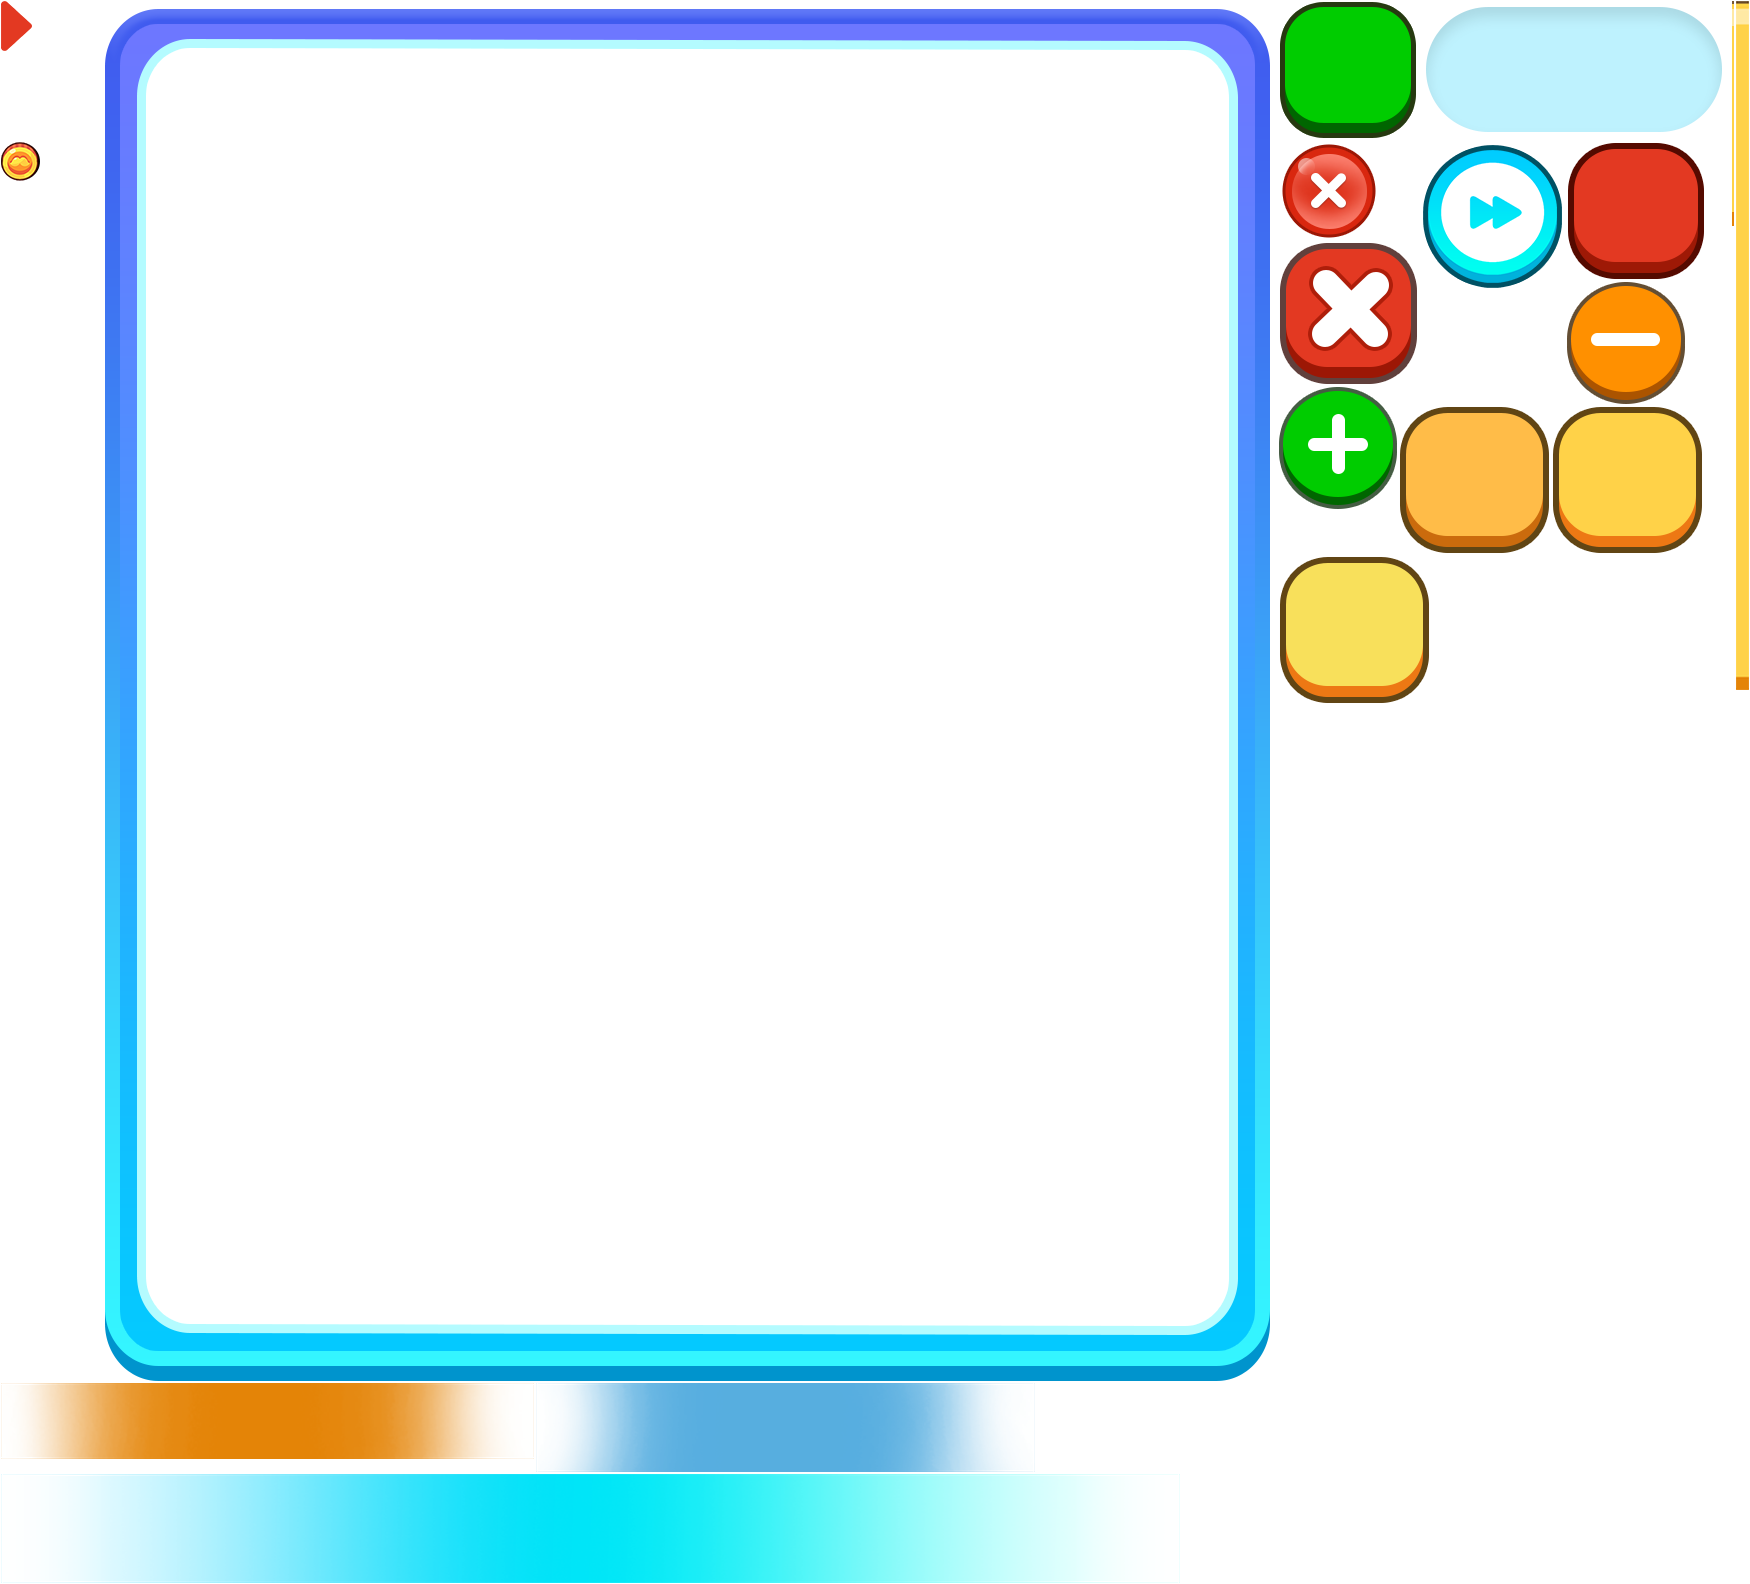
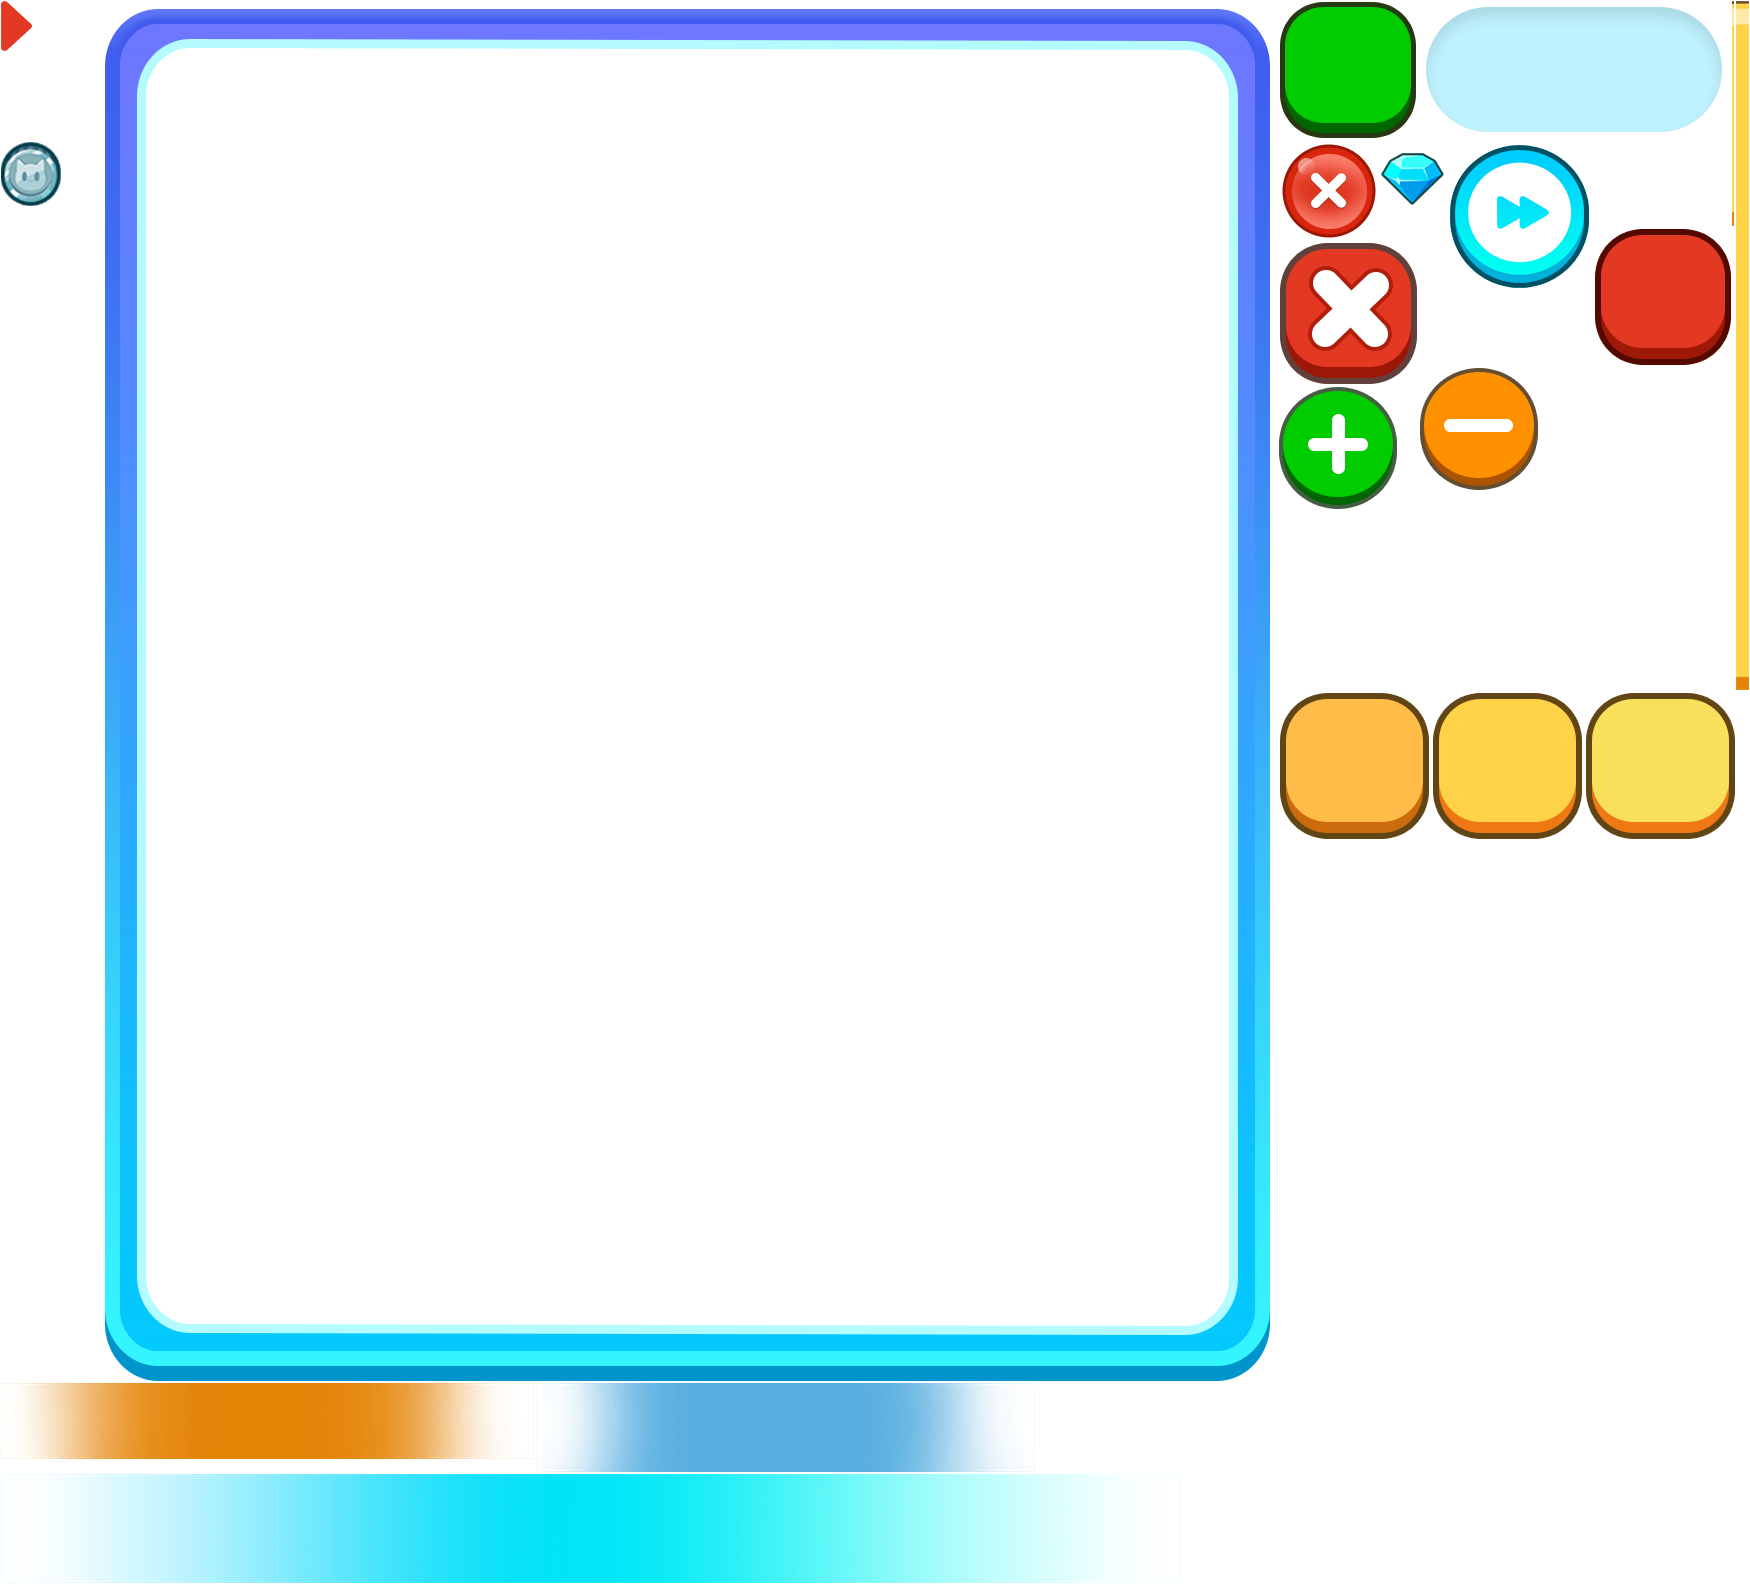
等级/矿工学识等级提升的系统提示和矿工装备界面优化

Changed region(s): [[0.7097, 0.0928, 1.0, 0.5568], [0.0, 0.0928, 0.0309, 0.1547]]

diff --git a/src/ui/EquipUpgrade/EquipUpgradeItem.ts b/src/ui/EquipUpgrade/EquipUpgradeItem.ts
@@ -1,16 +1,18 @@
 import { Font } from "../../utils/font";
 import { DynamicImage } from "../components/dynamic.image";
-import { Url } from "../../utils/resUtil";
+import { Url, Coin } from "../../utils/resUtil";
 import { op_client } from "pixelpai_proto";
 import { GameGridTable } from "../../../lib/rexui/lib/ui/gridtable/GameGridTable";
 import { GridTableConfig } from "../../../lib/rexui/lib/ui/gridtable/GridTableConfig";
 import { NinePatch } from "../components/nine.patch";
 import { BBCodeText } from "../../../lib/rexui/lib/ui/ui-components";
+import { UIAtlasKey } from "../ui.atals.name";
 export class EquipUpgradeItem extends Phaser.Events.EventEmitter {
     private bg: Phaser.GameObjects.Image;
     private topbg: Phaser.GameObjects.Image;
     private bottombg: Phaser.GameObjects.Image;
     private unlockbtn: Phaser.GameObjects.Container;
+    private unlockBg: NinePatch;
     private titleName: Phaser.GameObjects.Text;
     private equipName: Phaser.GameObjects.Text;
     private penetrationText: Phaser.GameObjects.Text;
@@ -217,10 +219,14 @@ export class EquipUpgradeItem extends Phaser.Events.EventEmitter {
         if (data.qualified) {
             this.unlockCondition.visible = false;
             this.unlockbtn.setInteractive();
+            this.unlockBg.clearTint();
+            this.costNum.setColor("#ffffff");
         } else if (!data.owned) {
             this.unlockCondition.visible = true;
             this.unlockCondition.text = data.conditionDisplayNames[0];
             this.unlockbtn.disableInteractive();
+            this.unlockBg.setTintFill(0x888888);
+            this.costNum.setColor("#999999");
         }
         if (data.price === null) {
             this.costNum.visible = false;
@@ -232,6 +238,8 @@ export class EquipUpgradeItem extends Phaser.Events.EventEmitter {
             this.costNum.text = Math.floor(costPrice * powValue) / powValue + "";
             this.costNum.visible = true;
             this.diamondIcon.visible = true;
+            this.diamondIcon.setTexture(this.commonKey, Coin.getIcon(data.price.coinType));
+            this.diamondIcon.setDisplaySize(12 * this.dpr, 12* this.dpr);
             this.btnName.setPosition(0, 6 * this.dpr);
         }
         cell.setSelect(true);
@@ -251,9 +259,10 @@ export class EquipUpgradeItem extends Phaser.Events.EventEmitter {
             right: 12 * this.dpr * this.zoom,
             bottom: 12 * this.dpr * this.zoom
         });
-        this.diamondIcon = this.mScene.make.image({ x: -15 * this.dpr, y: -8 * this.dpr, key: this.commonKey, frame: "test_diamond" });
-        this.costNum = this.mScene.make.text({ x: 0, y: -8 * this.dpr, text: "1000", style: { color: "#ffffff", fontSize: 10 * this.dpr, fontFamily: Font.DEFULT_FONT } }).setOrigin(0, 0.5);
-        this.btnName = this.mScene.make.text({ x: 0, y: 6 * this.dpr, text: "立即解锁", style: { color: "#8F4300", fontSize: 13 * this.dpr, fontFamily: Font.DEFULT_FONT } }).setOrigin(0.5, 0.5);
+        this.unlockBg = btnBg;
+        this.diamondIcon = this.mScene.make.image({ x: -13 * this.dpr, y: -8 * this.dpr, key: this.commonKey, frame: "test_diamond" });
+        this.costNum = this.mScene.make.text({ x: -2, y: -8 * this.dpr, text: "1000", style: { color: "#ffffff", fontSize: 10 * this.dpr, fontFamily: Font.DEFULT_FONT } }).setOrigin(0, 0.5);
+        this.btnName = this.mScene.make.text({ x: 0, y: 6 * this.dpr, text: "立即解锁", style: { color: "#8F4300", fontSize: 11* this.dpr, fontFamily: Font.DEFULT_FONT } }).setOrigin(0.5, 0.5);
         this.costNum.setStroke("#ffffff", 1);
         this.btnName.setStroke("#8F4300", 1);
         this.unlockCondition.setStroke("#000000", 1);

diff --git a/src/ui/PicaNotice/PicaNoticeMediator.ts b/src/ui/PicaNotice/PicaNoticeMediator.ts
@@ -5,18 +5,22 @@ import { PicaNoticePanel } from "./PicaNoticePanel";
 
 export class PicaNoticeMediator extends BaseMediator {
   private world: WorldService;
+  private panelQueue: any[] = [];
   constructor(private layerManager: ILayerManager, private scene: Phaser.Scene, world: WorldService) {
     super();
     this.world = world;
   }
 
   show(param?: any) {
-    if (this.mView && this.mView.isShow()) {
-      return;
+    const view = new PicaNoticePanel(this.scene, this.world);
+    view.once("close", this.onCloseHandler, this);
+    if (this.mView) {
+      const obj = { param, view };
+      this.panelQueue.push(obj);
+    } else {
+      this.mView = view;
+      this.mView.show(param);
     }
-    this.mView = new PicaNoticePanel(this.scene, this.world);
-    this.mView.once("close", this.onCloseHandler, this);
-    this.mView.show(param);
     // this.layerManager.addToToolTipsLayer(this.mView.view);
   }
 
@@ -24,6 +28,10 @@ export class PicaNoticeMediator extends BaseMediator {
     if (this.mView) {
       this.mView.destroy();
       this.mView = undefined;
+    }
+    if (this.panelQueue.length > 0) {
+      const obj = this.panelQueue.shift();
+      obj.view.show(obj.param);
     }
   }
 }

diff --git a/src/ui/EquipUpgrade/EquipUpgradePanel.ts b/src/ui/EquipUpgrade/EquipUpgradePanel.ts
@@ -6,6 +6,7 @@ import { NinePatch } from "../components/nine.patch";
 import { op_client } from "pixelpai_proto";
 import { Logger } from "../../utils/log";
 import { i18n } from "../../i18n";
+import { UIAtlasKey } from "../ui.atals.name";
 
 export default class EquipUpgradePanel extends BasePanel {
     private key = "equip_upgrade";
@@ -69,6 +70,7 @@ export default class EquipUpgradePanel extends BasePanel {
     }
 
     preload() {
+        this.commonkey = UIAtlasKey.commonKey;
         this.addAtlas(this.key, "equip_upgrade/mine_eqpm.png", "equip_upgrade/mine_eqpm.json");
         this.addAtlas(this.commonkey, "common/ui_base.png", "common/ui_base.json");
         super.preload();
